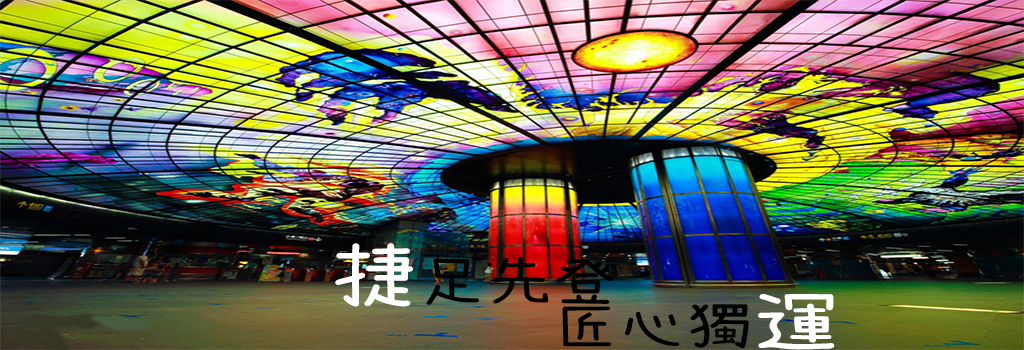
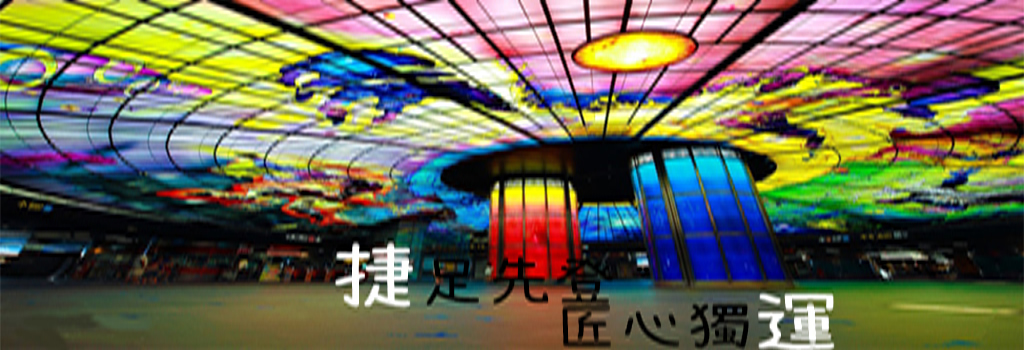
Commit

diff --git a/Untitled-1.html b/Untitled-1.html
@@ -9,12 +9,24 @@
 body {
 	background-image: url(img/%E7%B4%8B%E8%B7%AF1.gif);
 }
+a:link {
+	color: #F00;
+}
+a:hover {
+	color: #000;
+}
+a:visited {
+	color: #000;
+}
+a:active {
+	color: #000;
+}
 </style>
 </head>
 
 <body>
 <div align="center">
-  <p><img src="11.jpg" width="1024" height="350" /></p>
+  <p><a href="https://www.krtco.com.tw/"><img src="11.jpg" width="1236" height="350" alt="11" /></a></p>
 </div>
 <p> 
 <div align="center">
@@ -117,49 +129,52 @@ body {
 </ul>
   <p>&nbsp;</p>
 </div>
-<div align="center"><img src="guide_routemap.png" width="930" height="1263" usemap="#Map" border="0" />
-  <map name="Map" id="Map">
-    <area shape="rect" coords="831,806,918,879" href="T01.html" />
-    <area shape="poly" coords="827,734,826,734,826,735,827,734,814,788,828,791,861,767,897,727,916,695,863,694,818,741,815,763,815,787" href="O14.html" />
-    <area shape="poly" coords="772,795,776,751,791,727,811,731,805,767,791,791" href="O13.html" />
-    <area shape="poly" coords="728,788,736,752,756,728,773,738,765,762,756,786,756,784,753,791" href="O12.html" />
-    <area shape="poly" coords="687,766,786,655,808,670,717,767,700,790" href="O11.html" />
-    <area shape="poly" coords="642,786,662,742,681,720,693,729,688,748,674,764,667,787" href="O10.html" />
-    <area shape="poly" coords="607,767,637,724,655,722,646,746,636,766,626,782,608,786" href="O9.html" />
-    <area shape="poly" coords="562,768" href="#" />
-    <area shape="poly" coords="561,767,592,724,612,732,594,760,586,785,563,789" href="O8.html" />
-    <area shape="poly" coords="443,763,462,734,477,716,499,718,492,749,475,775,458,793,440,786" href="O7.html" />
-    <area shape="poly" coords="382,768,401,732,430,713,458,712,422,752,406,784,384,785" href="O6.html" />
-    <area shape="poly" coords="330,756,362,723,394,720,346,770,321,794,306,779,307,766" href="O5.html" />
-    <area shape="poly" coords="285,810,259,778,206,778,195,805,268,827,292,834,292,825" href="O4.html" />
-    <area shape="poly" coords="224,859,187,846,186,831,200,826,216,826,234,829,244,840,250,849,260,866,256,880,232,884,221,878" href="O2.html" />
-    <area shape="poly" coords="57,858,34,826,38,800,81,804,88,812,96,822,96,842,95,858,94,886,77,893,56,884" href="#" />
-    <area shape="rect" coords="692,1106,853,1146" href="R3.html" />
-    <area shape="poly" coords="615,1116" href="#" />
-    <area shape="poly" coords="618,1116,564,1164,606,1174,695,1168,680,1140,655,1120" href="R4.html" />
-    <area shape="poly" coords="512,1126" href="#" />
-    <area shape="poly" coords="509,1131,531,1094,572,1094,639,1095,652,1107,550,1135,524,1138,528,1150,536,1146,540,1142,530,1141,528,1142,524,1144,524,1144" href="R4A.html" />
-    <area shape="poly" coords="461,1075,494,1057,532,1055,575,1068,583,1078,498,1084,478,1091" href="R5.html" />
-    <area shape="poly" coords="340,1010,398,994,420,995,423,1012,412,1022,394,1030,370,1036,353,1036,338,1034" href="R6.html" />
-    <area shape="poly" coords="371,958,461,951,479,958,466,969,449,974,438,975,418,976,399,976,388,980,372,979,357,978,354,968" href="R7.html" />
-    <area shape="poly" coords="319,411,262,404,192,409,187,432,229,428,253,428,283,432,316,436,336,436,346,414" href="R16.html" />
-    <area shape="poly" coords="322,450,236,449,237,474,317,474,350,478,345,453" href="R15.html" />
-    <area shape="rect" coords="205,484,348,521" href="R14.html" />
-    <area shape="rect" coords="233,528,351,566" href="R13.html" />
-    <area shape="rect" coords="226,608,341,642" href="R12.html" />
-    <area shape="rect" coords="213,674,346,708" href="R11.html" />
-    <area shape="rect" coords="312,836,415,872" href="R9.html" />
-    <area shape="rect" coords="312,912,446,942" href="R8.html" />
-    <area shape="rect" coords="171,360,344,390" href="R17.html" />
-    <area shape="rect" coords="204,326,342,353" href="R18.html" />
-    <area shape="rect" coords="226,287,374,314" href="R19.html" />
-    <area shape="rect" coords="330,250,415,283" href="R20.html" />
-    <area shape="rect" coords="301,208,418,246" href="R21.html" />
-    <area shape="rect" coords="341,176,418,202" href="R22.html" />
-    <area shape="rect" coords="283,129,414,161" href="R22A.html" />
-    <area shape="rect" coords="278,83,410,116" href="R23.html" />
-    <area shape="rect" coords="311,34,416,65" href="R24.html" />
-  </map>
+<div align="center">
+  <p><a href="https://www.krtco.com.tw/"><img src="guide_routemap.png" width="930" height="1263" usemap="#Map" border="0" /></a>
+    <map name="Map" id="Map">
+      <area shape="rect" coords="831,806,918,879" href="T01.html" />
+      <area shape="poly" coords="827,734,826,734,826,735,827,734,814,788,828,791,861,767,897,727,916,695,863,694,818,741,815,763,815,787" href="O14.html" />
+      <area shape="poly" coords="772,795,776,751,791,727,811,731,805,767,791,791" href="O13.html" />
+      <area shape="poly" coords="728,788,736,752,756,728,773,738,765,762,756,786,756,784,753,791" href="O12.html" />
+      <area shape="poly" coords="687,766,786,655,808,670,717,767,700,790" href="O11.html" />
+      <area shape="poly" coords="642,786,662,742,681,720,693,729,688,748,674,764,667,787" href="O10.html" />
+      <area shape="poly" coords="607,767,637,724,655,722,646,746,636,766,626,782,608,786" href="O9.html" />
+      <area shape="poly" coords="562,768" href="#" />
+      <area shape="poly" coords="561,767,592,724,612,732,594,760,586,785,563,789" href="O8.html" />
+      <area shape="poly" coords="443,763,462,734,477,716,499,718,492,749,475,775,458,793,440,786" href="O7.html" />
+      <area shape="poly" coords="382,768,401,732,430,713,458,712,422,752,406,784,384,785" href="O6.html" />
+      <area shape="poly" coords="330,756,362,723,394,720,346,770,321,794,306,779,307,766" href="O5.html" />
+      <area shape="poly" coords="285,810,259,778,206,778,195,805,268,827,292,834,292,825" href="O4.html" />
+      <area shape="poly" coords="224,859,187,846,186,831,200,826,216,826,234,829,244,840,250,849,260,866,256,880,232,884,221,878" href="O2.html" />
+      <area shape="poly" coords="57,858,34,826,38,800,81,804,88,812,96,822,96,842,95,858,94,886,77,893,56,884" href="O1.html" target="_top" />
+      <area shape="rect" coords="692,1106,853,1146" href="R3.html" />
+      <area shape="poly" coords="615,1116" href="#" />
+      <area shape="poly" coords="618,1116,564,1164,606,1174,695,1168,680,1140,655,1120" href="R4.html" />
+      <area shape="poly" coords="512,1126" href="#" />
+      <area shape="poly" coords="509,1131,531,1094,572,1094,639,1095,652,1107,550,1135,524,1138,528,1150,536,1146,540,1142,530,1141,528,1142,524,1144,524,1144" href="R4A.html" />
+      <area shape="poly" coords="461,1075,494,1057,532,1055,575,1068,583,1078,498,1084,478,1091" href="R5.html" />
+      <area shape="poly" coords="340,1010,398,994,420,995,423,1012,412,1022,394,1030,370,1036,353,1036,338,1034" href="R6.html" />
+      <area shape="poly" coords="371,958,461,951,479,958,466,969,449,974,438,975,418,976,399,976,388,980,372,979,357,978,354,968" href="R7.html" />
+      <area shape="poly" coords="319,411,262,404,192,409,187,432,229,428,253,428,283,432,316,436,336,436,346,414" href="R16.html" />
+      <area shape="poly" coords="322,450,236,449,237,474,317,474,350,478,345,453" href="R15.html" />
+      <area shape="rect" coords="205,484,348,521" href="R14.html" />
+      <area shape="rect" coords="233,528,351,566" href="R13.html" />
+      <area shape="rect" coords="226,608,341,642" href="R12.html" />
+      <area shape="rect" coords="213,674,346,708" href="R11.html" />
+      <area shape="rect" coords="312,836,415,872" href="R9.html" />
+      <area shape="rect" coords="312,912,446,942" href="R8.html" />
+      <area shape="rect" coords="171,360,344,390" href="R17.html" />
+      <area shape="rect" coords="204,326,342,353" href="R18.html" />
+      <area shape="rect" coords="226,287,374,314" href="R19.html" />
+      <area shape="rect" coords="330,250,415,283" href="R20.html" />
+      <area shape="rect" coords="301,208,418,246" href="R21.html" />
+      <area shape="rect" coords="341,176,418,202" href="R22.html" />
+      <area shape="rect" coords="283,129,414,161" href="R22A.html" />
+      <area shape="rect" coords="278,83,410,116" href="R23.html" />
+      <area shape="rect" coords="311,34,416,65" href="R24.html" />
+    </map>
+  </p>
+  <p class="TOP"><a href="Untitled-1.html">TOP</a></p>
 </div>&nbsp;</p>
 <script type="text/javascript">
 var MenuBar2 = new Spry.Widget.MenuBar("MenuBar2", {imgDown:"SpryAssets/SpryMenuBarDownHover.gif", imgRight:"SpryAssets/SpryMenuBarRightHover.gif"});

diff --git a/O1.html b/O1.html
@@ -64,7 +64,7 @@ a:link {
       </div>
     </div>
   </div>
-  <p><a href="index.html">BACK</a></p>
+  <p><a href="Untitled-1.html">BACK</a></p>
 </div>
 <script type="text/javascript">
 var Accordion1 = new Spry.Widget.Accordion("Accordion1");

diff --git a/O10.html b/O10.html
@@ -62,7 +62,7 @@ a:link {
       </div>
     </div>
   </div>
-  <p><a href="index.html">BACK</a></p>
+  <p><a href="Untitled-1.html">BACK</a></p>
 </div>
 <script type="text/javascript">
 var Accordion1 = new Spry.Widget.Accordion("Accordion1");

diff --git a/O11.html b/O11.html
@@ -59,7 +59,7 @@ a:link {
       </div>
     </div>
   </div>
-  <p><a href="index.html">BACK</a></p>
+  <p><a href="Untitled-1.html">BACK</a></p>
 </div>
 <script type="text/javascript">
 var Accordion1 = new Spry.Widget.Accordion("Accordion1");

diff --git a/SpryAssets/SpryMenuBarHorizontal.css b/SpryAssets/SpryMenuBarHorizontal.css
@@ -166,3 +166,7 @@ ul.MenuBarHorizontal iframe
 		background: #FFF;
 	}
 }
+.TOP {
+	font-family: SetoFont;
+	font-size: 50px;
+}
